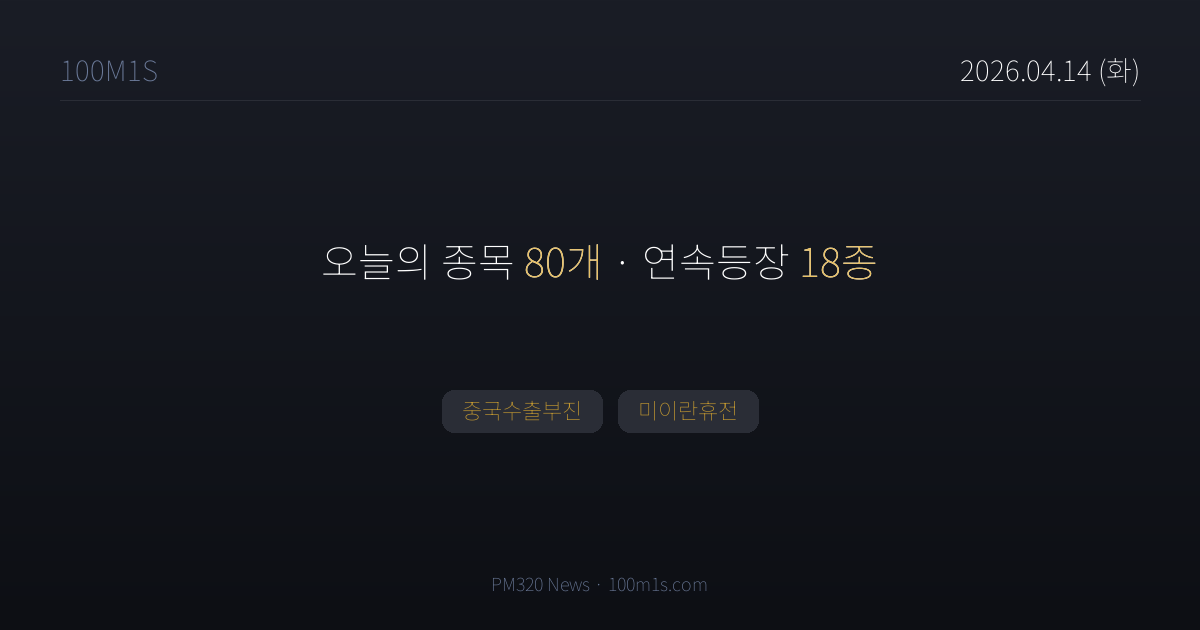
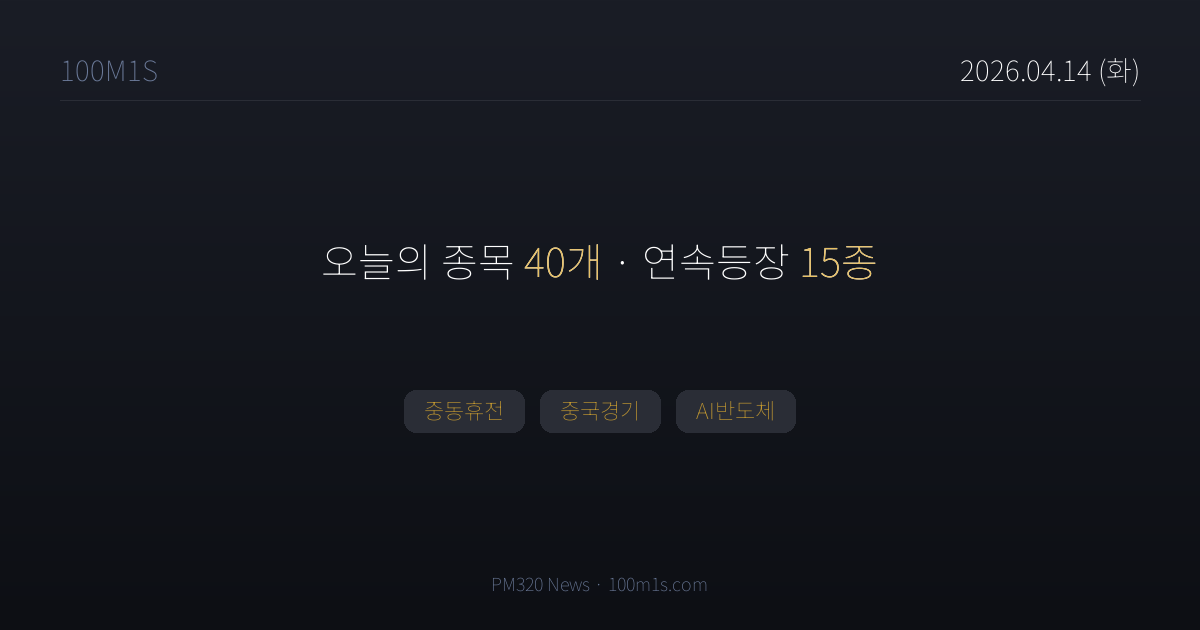
chore(news): 2026-04-14T15:08 pipeline

Changed region(s): [[0.3392, 0.6032, 0.6783, 0.6937], [0.6783, 0.3921, 0.7092, 0.4524], [0.4317, 0.3921, 0.4625, 0.4524]]

diff --git a/news/2026-04-14.html b/news/2026-04-14.html
@@ -3,8 +3,8 @@
 <head>
 <meta charset="UTF-8">
 <title>4월 14일 (화) 뉴스 — 100M1S</title>
-<meta property="og:title" content="4월 14일 (화) · 종목 80개">
-<meta property="og:description" content="중국수출부진, 미이란휴전">
+<meta property="og:title" content="4월 14일 (화) · 종목 40개">
+<meta property="og:description" content="중동휴전, 중국경기, AI반도체">
 <meta property="og:image" content="https://100m1s.com/og/2026-04-14.png">
 <meta property="og:image:width" content="1200">
 <meta property="og:image:height" content="630">
